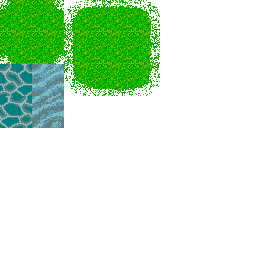
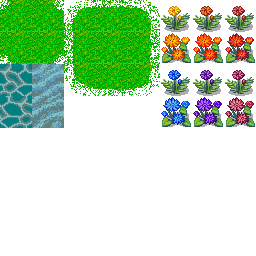
16 hours. The map was a bit void, put some Flowers :)
Put some flower on the map generation, for 2 reasons:
1- Need to get content in the game.
2- Will be usefull for collision code.

Changed region(s): [[0.625, 0.0, 1.0, 0.5]]

diff --git a/src/es/ld23/util/map/Tile.java b/src/es/ld23/util/map/Tile.java
@@ -6,14 +6,29 @@ public class Tile {
 
 	public static final Tile Mar[] = new Tile[]{new Tile(2, false), new Tile(3, false)};
 	public static final Tile MarHierva[] = new Tile[]{
-		new Tile(32, true), new Tile(48, true), new Tile(64, true),
-		new Tile(33, true), new Tile(49, true), new Tile(65, true),
-		new Tile(34, true), new Tile(50, true), new Tile(66, true)
+		new Tile(16, true), new Tile(24, true), new Tile(32, true),
+		new Tile(17, true), new Tile(25, true), new Tile(33, true),
+		new Tile(18, true), new Tile(26, true), new Tile(34, true)
 	};
 	public static final Tile HiervaMar[] = new Tile[]{
-		new Tile(0, true), new Tile(16, true),
-		new Tile(1, true), new Tile(17, true)
+		new Tile(0, true), new Tile(8, true),
+		new Tile(1, true), new Tile(9, true)
 	};
+	public  static final Tile FloresHierva[][] = new Tile [][]{
+		new Tile[]{new Tile(40, true), new Tile(41, true)},
+		new Tile[]{new Tile(42, true), new Tile(43, true)},
+		new Tile[]{new Tile(48, true), new Tile(49, true)},
+		new Tile[]{new Tile(50, true), new Tile(51, true)},
+		new Tile[]{new Tile(56, true), new Tile(57, true)},
+		new Tile[]{new Tile(58, true), new Tile(59, true)},
+	};
+	
+	static {
+		for (int i = 0; i < FloresHierva.length; i++) {
+			FloresHierva[i][0].next = MarHierva[4];
+			FloresHierva[i][1].next = MarHierva[4];
+		}
+	}
 
 	public static void setWaterLayer(Tile water) {
 		for (int i = 0; i < MarHierva.length; i++) {
@@ -39,8 +54,8 @@ public class Tile {
 		if (next != null) {
 			next.render(f, c);
 		}
-		int t_f = renderData % 16;
-		int t_c = renderData / 16;
+		int t_f = renderData % 8;
+		int t_c = renderData / 8;
 
 		double text_left = t_c * texture_prop;
 		double text_top = t_f * texture_prop;

diff --git a/src/es/ld23/util/map/Map.java b/src/es/ld23/util/map/Map.java
@@ -155,6 +155,19 @@ public class Map {
 						setTile(f, c, Tile.HiervaMar[2]);
 					} else if (getTile(f + 1, c + 1) == water) {
 						setTile(f, c, Tile.HiervaMar[3]);
+					} else {
+					}
+				}
+			}
+		}
+
+		for (int f = 0; f < map_f; f++) {
+			for (int c = 0; c < map_c; c++) {
+				if (getTile(f, c) == Tile.MarHierva[4]) {
+					int n = r.nextInt(500);
+					if (n < Tile.FloresHierva.length) {
+						int pos = r.nextBoolean() ? 1 : 0;
+						setTile(f, c, Tile.FloresHierva[n][pos]);
 					}
 				}
 			}
